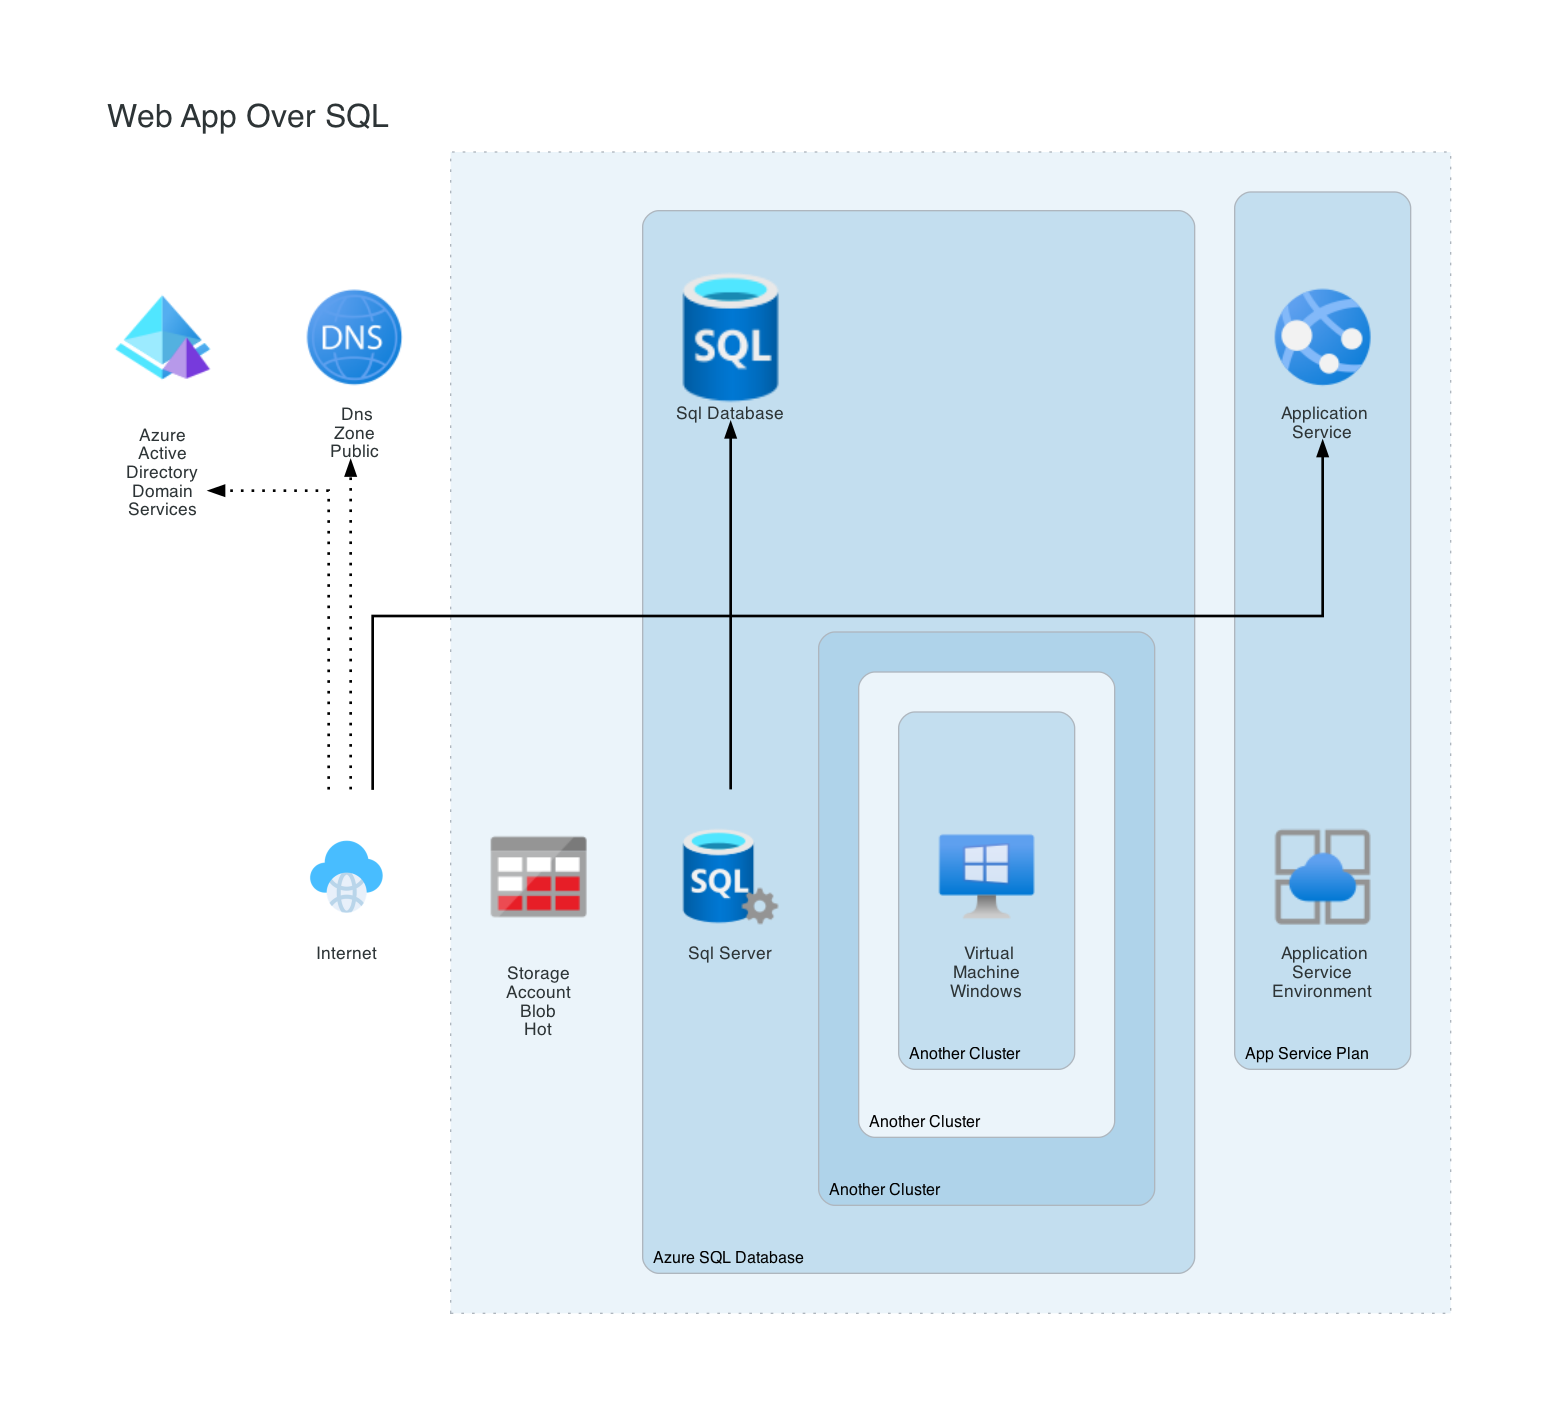
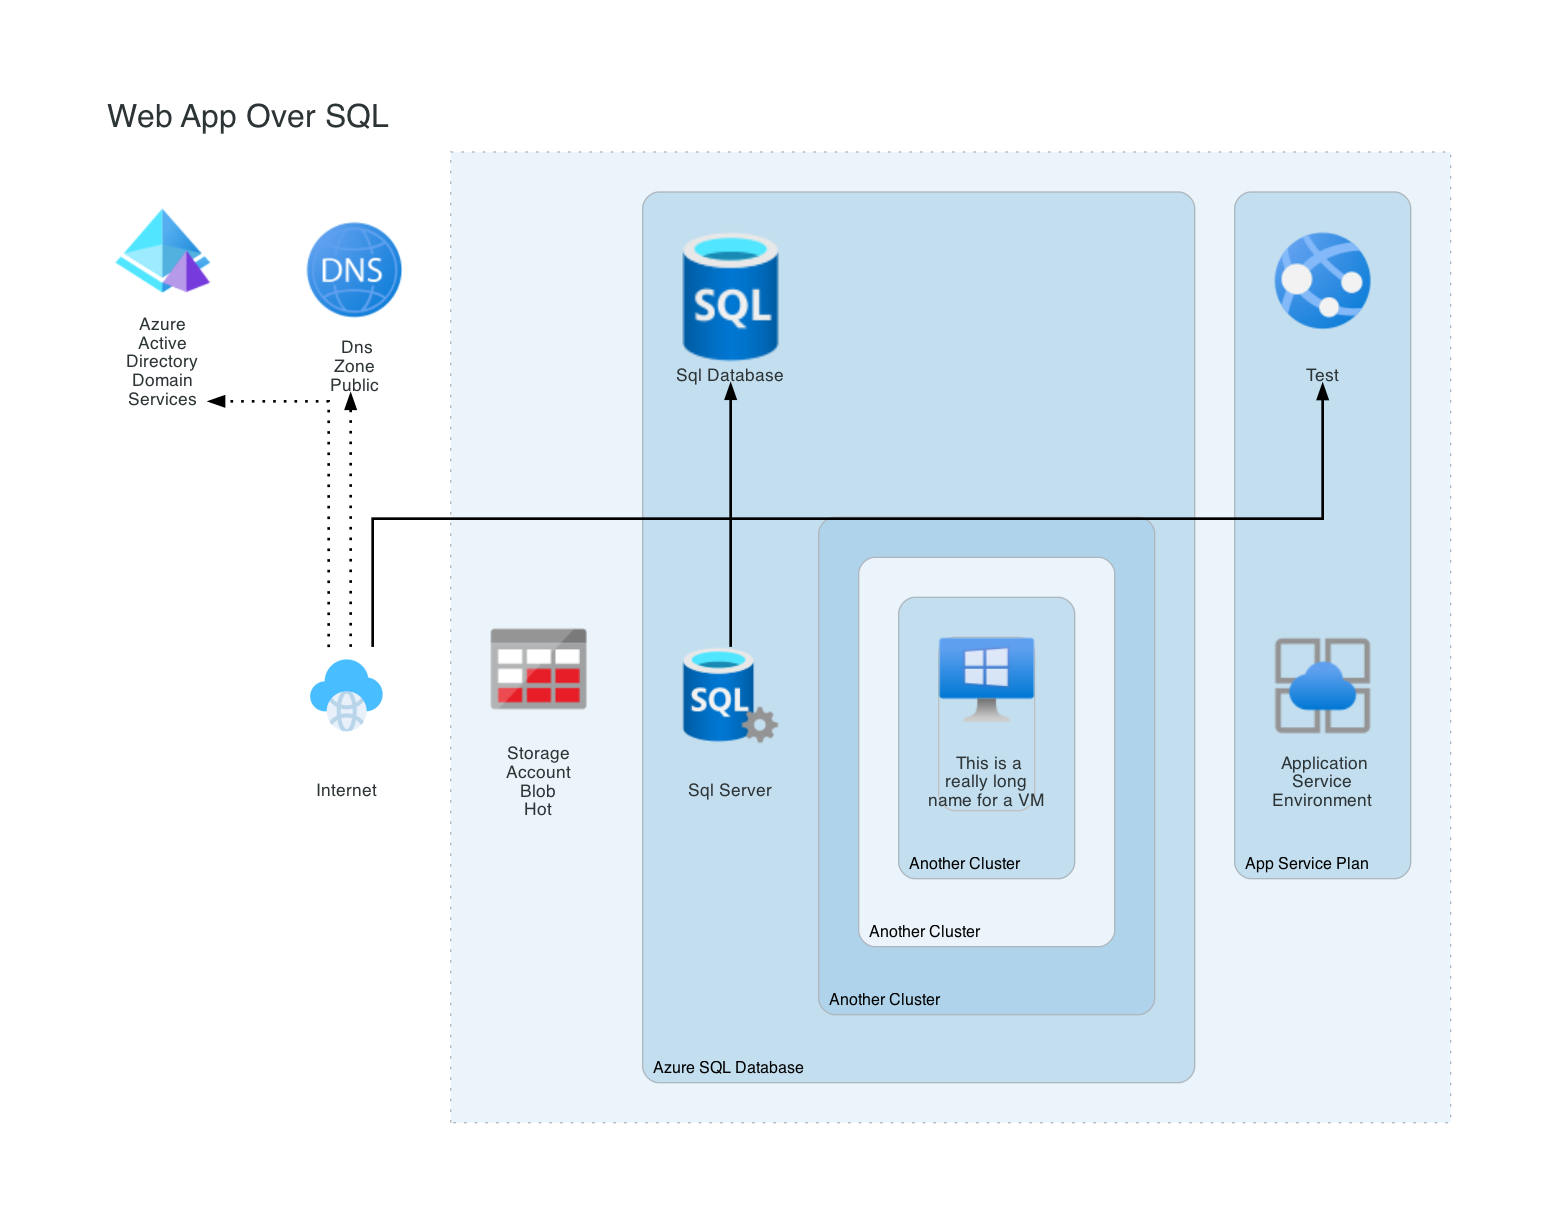
updated themes and core so that arrows point directly to images when targeted from the top

diff --git a/examples/basic-web-app.py b/examples/basic-web-app.py
@@ -19,7 +19,7 @@ with Graph('Web App Over SQL', theme=theme):
     with Cluster(style="dotted") as resource_group:
         blob_storage = StorageAccountBlobHot()
         with Cluster("App Service Plan") as app_service_plan:
-            app_service = ApplicationService()
+            app_service = ApplicationService("Test")
             app_service_environment = ApplicationServiceEnvironment()
 
         with Cluster("Azure SQL Database") as data_subnet:
@@ -29,7 +29,7 @@ with Graph('Web App Over SQL', theme=theme):
             with Cluster("Another Cluster"):
                 with Cluster("Another Cluster"):
                     with Cluster("Another Cluster"):
-                        vm = VirtualMachineWindows()
+                        vm = VirtualMachineWindows("This is a really long name for a VM", color="grey")
 
     Edge(internet, [azure_ad, dns], style="dotted")
     Edge(internet, app_service)

diff --git a/architectures/themes/__init__.py b/architectures/themes/__init__.py
@@ -84,7 +84,7 @@ default_node_attrs = {
     "group": "",
     "height": "0.5",
     # "image": "",
-    "imagepos": "mc",
+    "imagepos": "tc",
     "imagescale": "false",
     # "label": "",
     "labelloc": "c",
@@ -240,7 +240,7 @@ class LightMode(_Theme):
             "style": "rounded,filled",
             "fixedsize": "true",
             "width": "1.0",
-            "height": "1.8",
+            "height": "1.5",
             "labelloc": "b",
             "imagescale": "true",
             "fontname": "Calibri",
@@ -317,7 +317,7 @@ class DarkMode(_Theme):
             "style": "rounded,filled",
             "fixedsize": "true",
             "width": "1.0",
-            "height": "1.8",
+            "height": "1.5",
             "labelloc": "b",
             "imagescale": "true",
             "fontname": "Sans-Serif",

diff --git a/architectures/core/__init__.py b/architectures/core/__init__.py
@@ -313,8 +313,14 @@ class Node():
         self.node_attrs.update(attrs)
 
         # Add attributes specific for when provider service nodes are used.
+        # 1 - 2.2 (1.2)
+        # 2 - 2.2 (.6)
+        # 3 - 2.2 (.4)
+        # 4 - 1.8 (.2)
+        # 5 - 
         if self._icon:
-            padding = 0.4 * (self.label.count('\n'))
+            padding = .1 * (self.label.count('\n'))
+            #self.node_attrs["height"] = "1.5"
             self.node_attrs["height"] = str(float(self.node_attrs['height']) + padding)
             self.node_attrs["image"] = self._load_icon()
 
